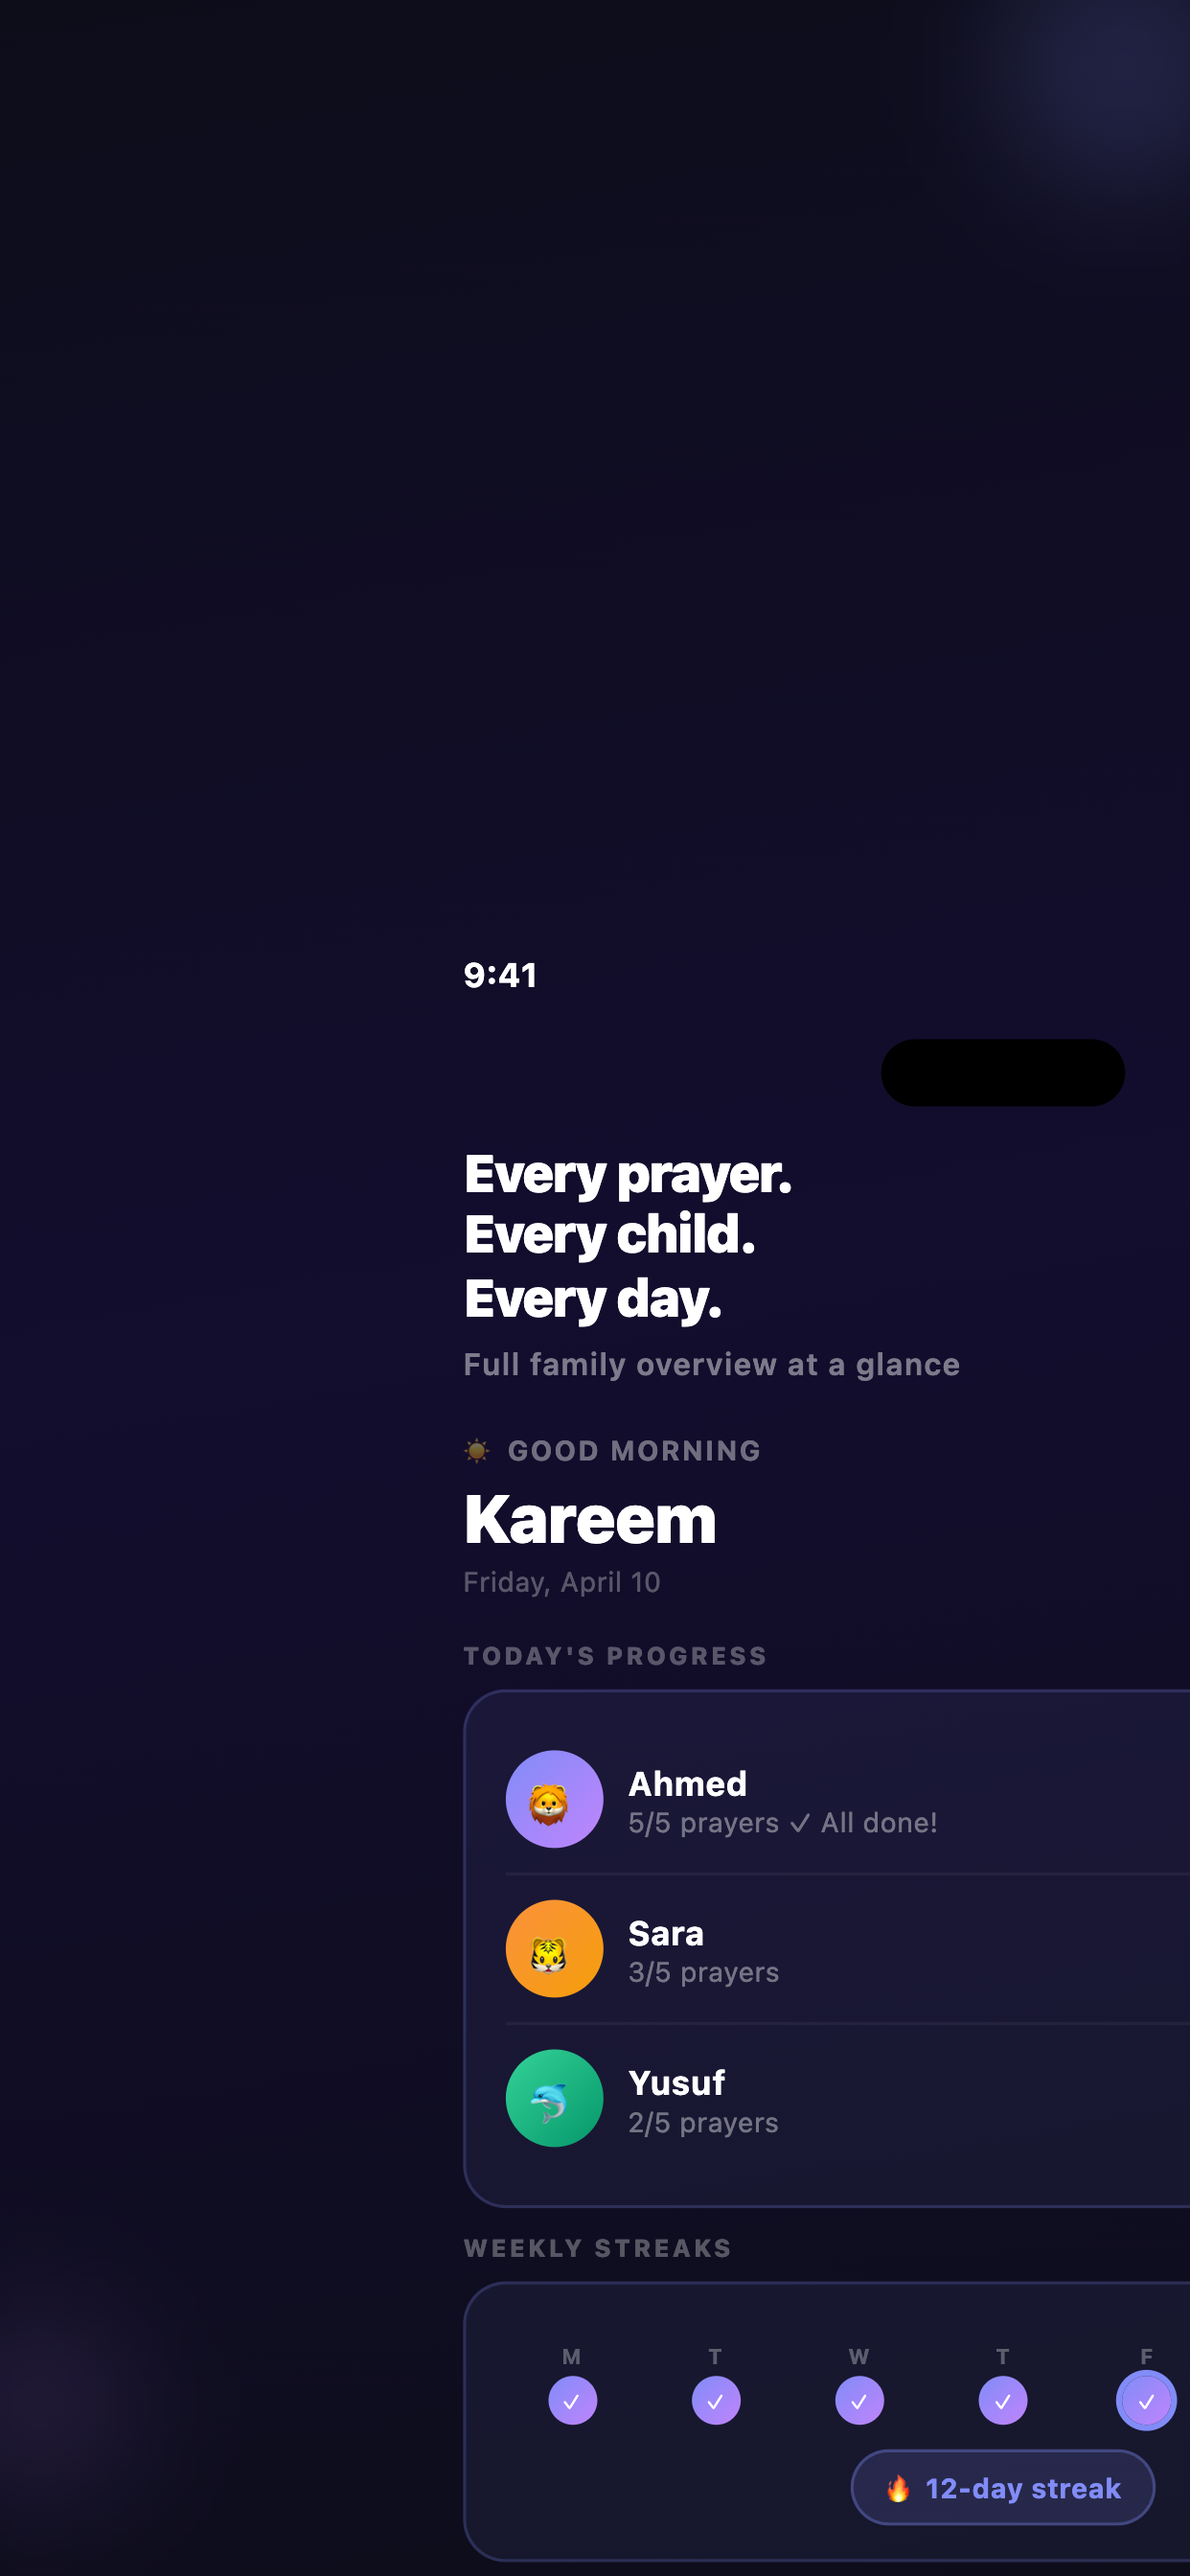
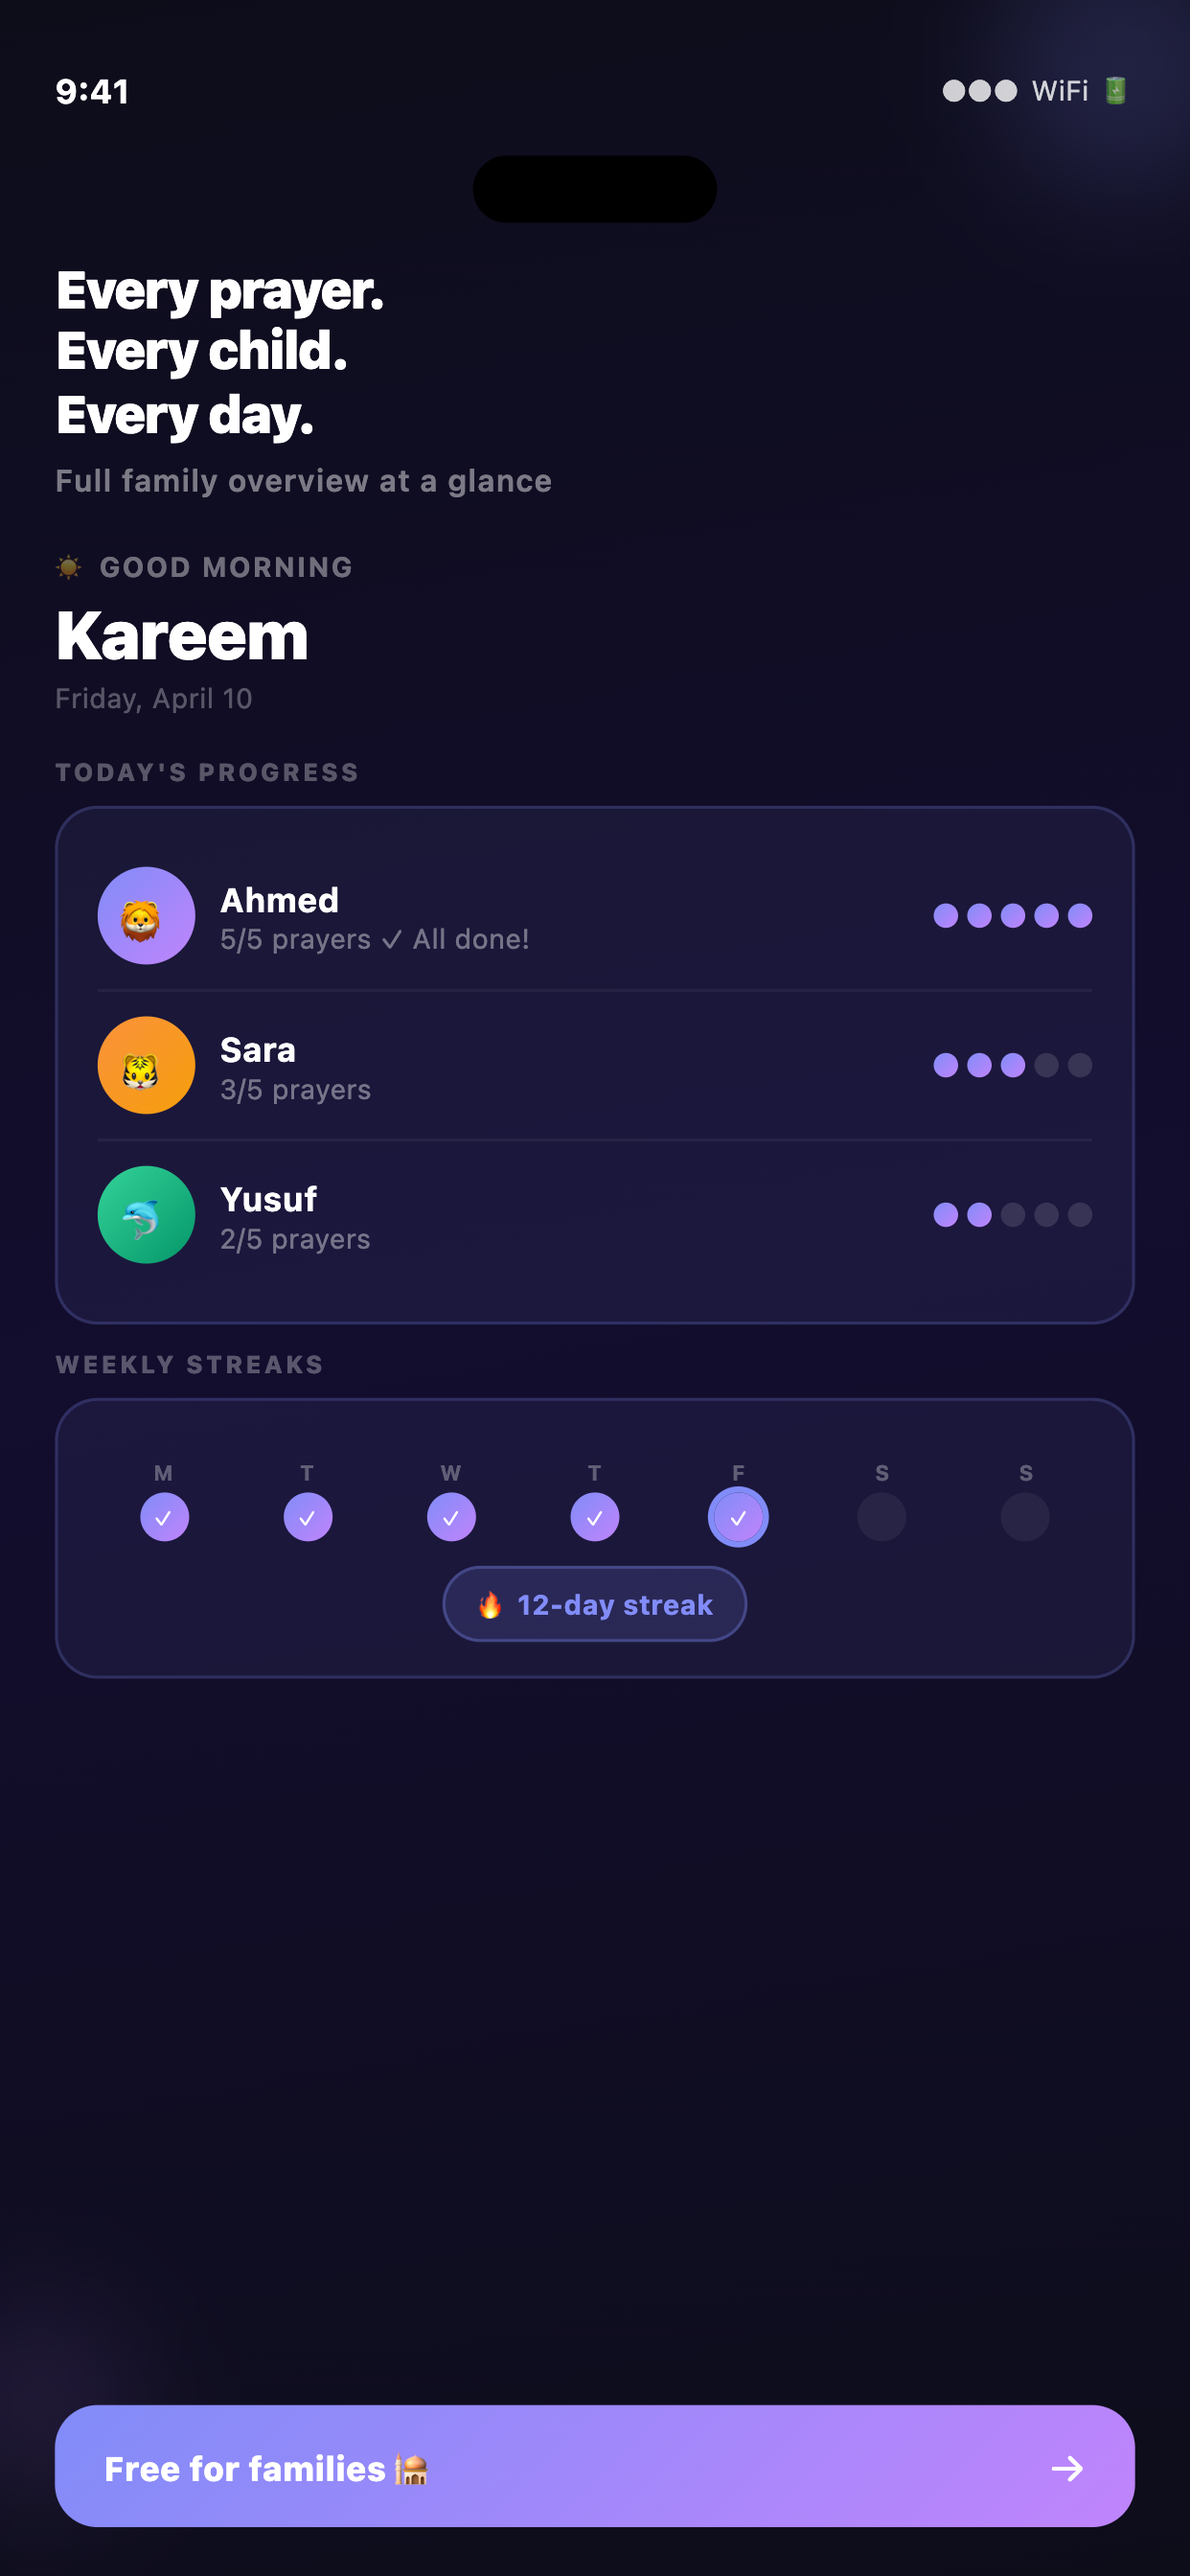
Fix screenshot generation: content now fills full frame
- Fixed transform-origin bug that caused large black gap at top
- Scale X and Y independently to fill exact App Store dimensions
- Each slide rendered in isolation via fixed positioning
- Regenerated all 15 PNGs across 6.7", 6.5", 5.5" sizes

diff --git a/scripts/generate-screenshots.js b/scripts/generate-screenshots.js
@@ -19,6 +19,10 @@ const SLIDES = [
   { id: 's5', name: '5-progress-streaks' },
 ];
 
+// Base design dimensions (what the CSS was written for)
+const BASE_W = 390;
+const BASE_H = 844;
+
 async function run() {
   fs.mkdirSync(OUT_DIR, { recursive: true });
 
@@ -32,79 +36,74 @@ async function run() {
     const sizeDir = path.join(OUT_DIR, size.label);
     fs.mkdirSync(sizeDir, { recursive: true });
 
-    const page = await browser.newPage();
+    // Scale to fill full height — stretch both axes independently
+    const scaleX = size.width / BASE_W;
+    const scaleY = size.height / BASE_H;
 
-    // Set viewport to exact App Store dimensions
-    await page.setViewport({ width: size.width, height: size.height, deviceScaleFactor: 1 });
-
-    await page.goto(`file://${HTML_FILE}`, { waitUntil: 'networkidle0' });
-
-    // Switch to this size via the JS function
-    await page.evaluate((s) => {
-      document.querySelectorAll('.size-btn').forEach(b => b.classList.remove('active'));
-      document.querySelectorAll('.slide').forEach(el => {
-        el.className = 'slide size-' + s;
-      });
-    }, size.key);
-
-    // Inject styles to make each slide exactly the right size and hide UI chrome
-    await page.addStyleTag({ content: `
-      body { padding: 0; margin: 0; background: #000; }
-      h1, .subtitle, .sizes { display: none !important; }
-      .grid { display: block; padding: 0; margin: 0; gap: 0; }
-      .slide {
-        width: ${size.width}px !important;
-        height: ${size.height}px !important;
-        border-radius: 0 !important;
-        box-shadow: none !important;
-        margin: 0 !important;
-        display: flex !important;
-      }
-      /* Scale inner content proportionally from 390×844 base */
-      .slide .inner { transform-origin: top left; }
-    ` });
-
-    // Scale inner content to fill the full slide
-    await page.evaluate((w, h) => {
-      const baseW = 390, baseH = 844;
-      const scaleX = w / baseW;
-      const scaleY = h / baseH;
-      const scale = Math.min(scaleX, scaleY);
-      document.querySelectorAll('.inner').forEach(el => {
-        el.style.transform = `scale(${scale})`;
-        el.style.transformOrigin = 'top left';
-        el.style.width = baseW + 'px';
-        el.style.height = baseH + 'px';
-      });
-      document.querySelectorAll('.slide').forEach(el => {
-        el.style.display = 'flex';
-        el.style.alignItems = 'center';
-        el.style.justifyContent = 'center';
-        el.style.background = 'linear-gradient(170deg,#0d0d1a 0%,#130d2e 50%,#0d0d1a 100%)';
-      });
-    }, size.width, size.height);
-
-    // Screenshot each slide
     for (const slide of SLIDES) {
-      const el = await page.$(`#${slide.id}`);
-      if (!el) { console.warn(`  ⚠  #${slide.id} not found`); continue; }
+      const page = await browser.newPage();
+      await page.setViewport({ width: size.width, height: size.height, deviceScaleFactor: 1 });
+      await page.goto(`file://${HTML_FILE}`, { waitUntil: 'networkidle0' });
+
+      // Hide chrome, show only target slide, scale inner to fill exactly
+      await page.evaluate((slideId, w, h, sx, sy, bw, bh) => {
+        // Hide all page chrome
+        ['h1', '.subtitle', '.sizes', 'h2'].forEach(sel => {
+          document.querySelectorAll(sel).forEach(el => el.style.display = 'none');
+        });
+        // Hide the download section (last div before script)
+        const downloadDiv = document.querySelector('body > div:last-of-type');
+        if (downloadDiv) downloadDiv.style.display = 'none';
+
+        // Reset body/grid
+        document.body.style.cssText = 'margin:0;padding:0;background:#0d0d1a;overflow:hidden;';
+        const grid = document.querySelector('.grid');
+        if (grid) grid.style.cssText = 'padding:0;margin:0;display:block;';
+
+        // Hide all slides except target
+        document.querySelectorAll('.slide').forEach(el => {
+          el.style.display = 'none';
+        });
+
+        // Show and size the target slide
+        const target = document.getElementById(slideId);
+        if (!target) return;
+        target.style.cssText = `
+          display: block !important;
+          width: ${w}px !important;
+          height: ${h}px !important;
+          position: fixed !important;
+          top: 0 !important; left: 0 !important;
+          overflow: hidden !important;
+          border-radius: 0 !important;
+          box-shadow: none !important;
+        `;
+
+        // Scale inner to fill — stretch both X and Y independently
+        const inner = target.querySelector('.inner');
+        if (inner) {
+          inner.style.cssText = `
+            position: absolute !important;
+            top: 0 !important; left: 0 !important;
+            width: ${bw}px !important;
+            height: ${bh}px !important;
+            transform: scale(${sx}, ${sy}) !important;
+            transform-origin: top left !important;
+          `;
+        }
+      }, slide.id, size.width, size.height, scaleX, scaleY, BASE_W, BASE_H);
 
       const outFile = path.join(sizeDir, `${slide.name}.png`);
-      await el.screenshot({ path: outFile, type: 'png' });
+      await page.screenshot({ path: outFile, type: 'png', clip: { x: 0, y: 0, width: size.width, height: size.height } });
       console.log(`  ✅ ${slide.name}.png`);
-    }
 
-    await page.close();
+      await page.close();
+    }
   }
 
   await browser.close();
 
   console.log(`\n🎉 Done! Screenshots saved to:\n   ${OUT_DIR}`);
-  console.log('\nFiles:');
-  for (const size of SIZES) {
-    console.log(`\n  ${size.label}/`);
-    SLIDES.forEach(s => console.log(`    ${s.name}.png  (${size.width}×${size.height})`));
-  }
 }
 
 run().catch(e => { console.error(e); process.exit(1); });
